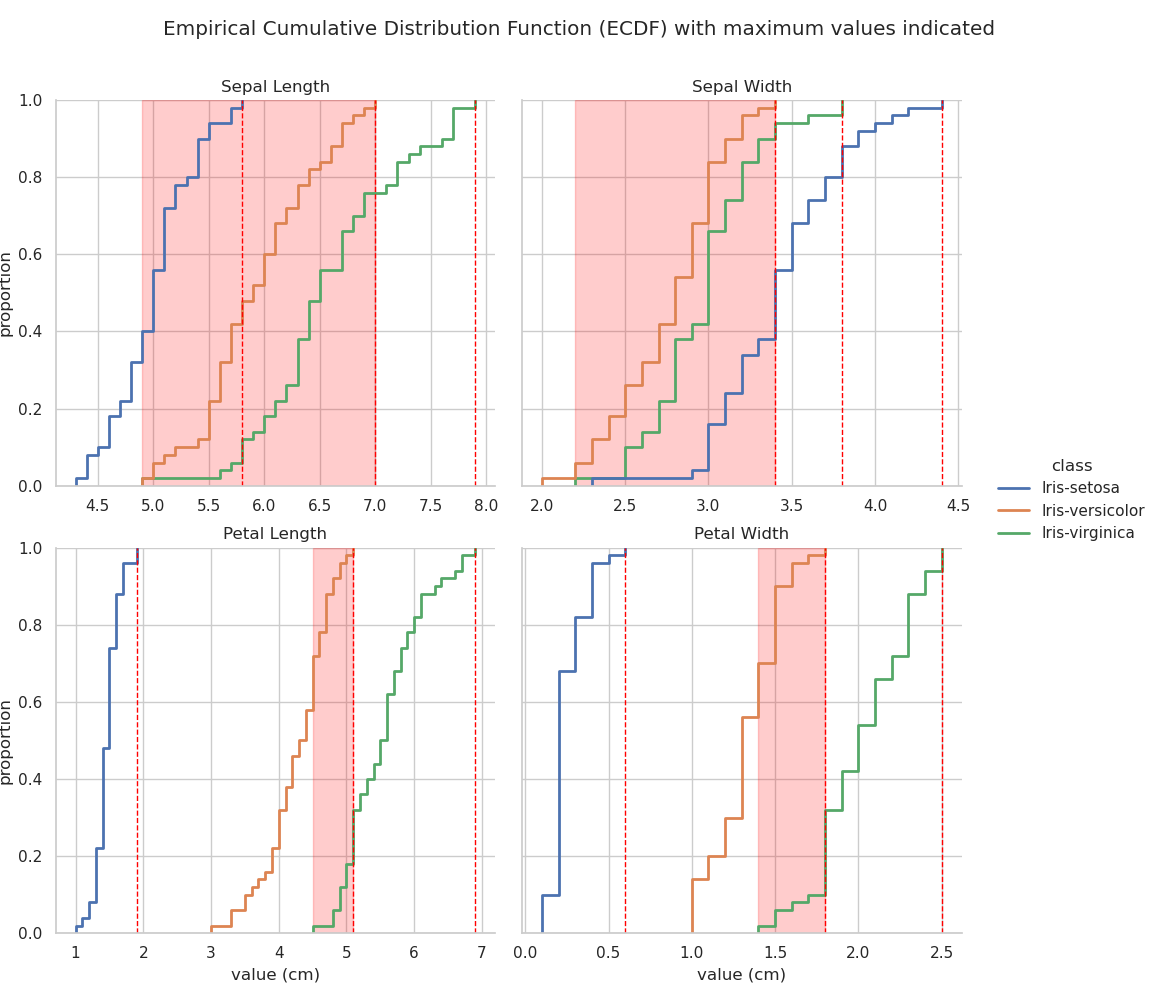
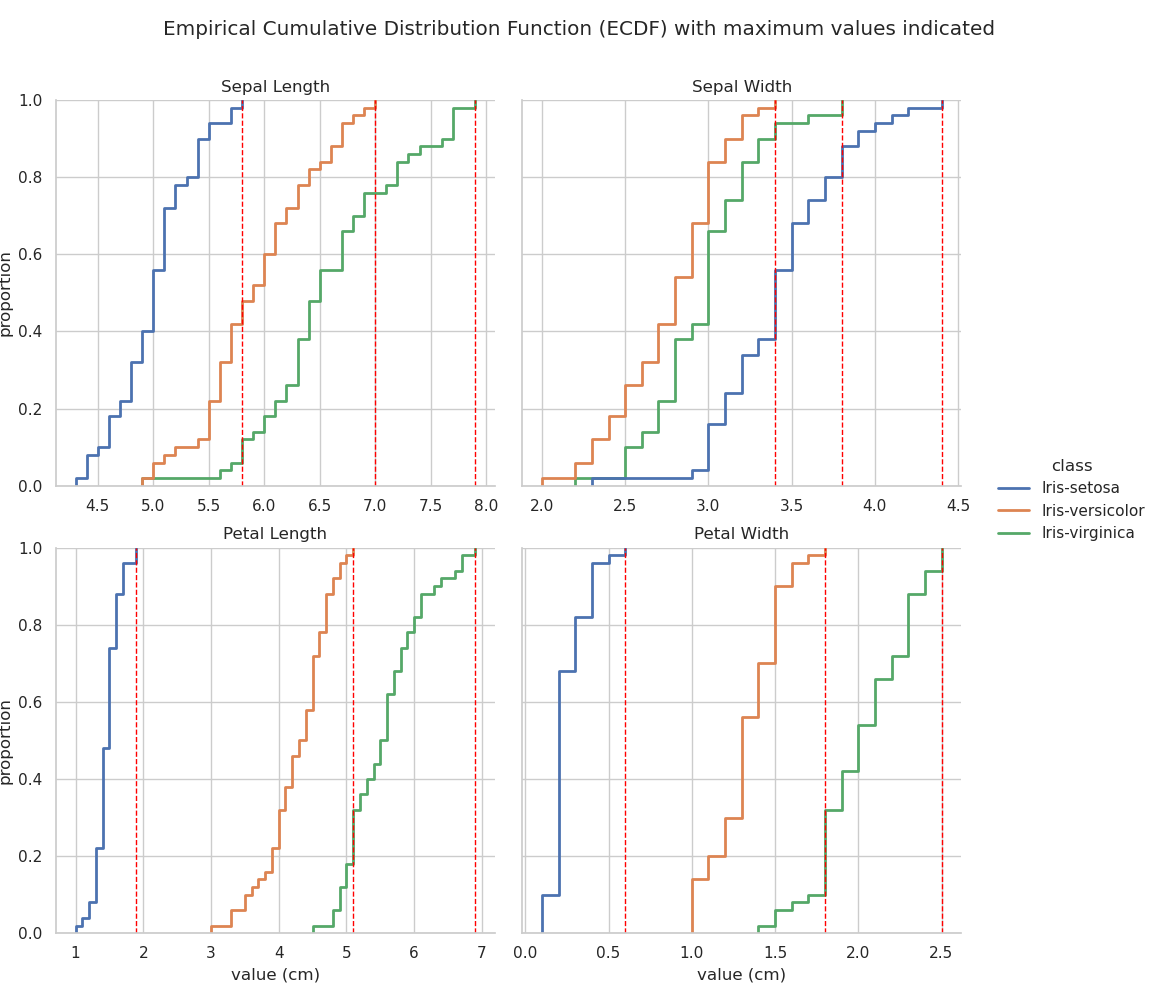
Fixed bug in ecdf plots where span was always rendered

diff --git a/analysis_plots.py b/analysis_plots.py
@@ -192,7 +192,7 @@ def ecdfs(data=None, x=None, col=None, title=None, filename=None, vlines=False, 
         min_virg = np.min(x[100:])
         plt.axvspan(max_vers, min_virg, color="red", alpha=0.2)
 
-    if span:
+    if vspan:
         # Draw the overlap spans in ECDF facets
         g.map(span, "value")
 
